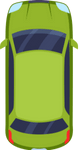
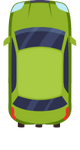
i deleted fire and repladed with car1Fire

diff --git a/race/race.js b/race/race.js
@@ -22,6 +22,7 @@ let gameOverStatus = false;
 
 // DOM elements
 const car1 = document.getElementById("car1");
+const imgCar1 = document.getElementById("imgCar1");
 const showScore = document.getElementById("showScore");
 const startBtn = document.getElementById("start");
 const retryBtn = document.getElementById("retry");
@@ -31,7 +32,6 @@ const roadLines = document.querySelectorAll(".roadLines");
 const itemContainer = document.querySelector(".items");
 const showLifeScore = document.getElementById("showLifeScore");
 const showTopScore = document.getElementById("showTopScore");
-const fire = document.getElementById("fire");
 const showDirections = document.getElementById("showDirections");
 
 showLifeScore.textContent = lifeScore;
@@ -87,12 +87,12 @@ function isBoum(item) {
                   itemTop + itemHeight +30 <= carTopMax;
   if (isSameX && isSameY) {
     if (item.dataset.type === "boost") { 
+      imgCar1.src = "../img/car1Fire.png";
       speed = 14  ;
-      fire.classList.remove("d-none");
       animate();
       setTimeout(() => {
-      speed = 7  ;
-      fire.classList.add("d-none");
+        imgCar1.src = "../img/car1.png"
+        speed = 7  ;
       animate();  
       }, 10000);
     } 

diff --git a/race/race.html b/race/race.html
@@ -89,15 +89,8 @@
           <div class="bg-info-dark "  style="width: 90px"></div> <!-- road 3  -->     
           <div class="sidewalk bg-success rounded-end-3"></div>
           <div id="car1" class="position-absolute bottom-0 mb-">
-            <img src="../img/car1.png" alt="Car">
+            <img id="imgCar1" src="../img/car1.png" alt="Car">
           </div>
-          <img 
-            id="fire" 
-            src="../img/fire.png" 
-            alt="fire" 
-            class="position-absolute bottom-0 d-none opacity-75" 
-            style="width: 268px; height: 40px; left: 37px"
-          >
           <!-- retry an start -->
           <div class="d-flex top-50 start-50 translate-middle position-absolute">
             <button 
